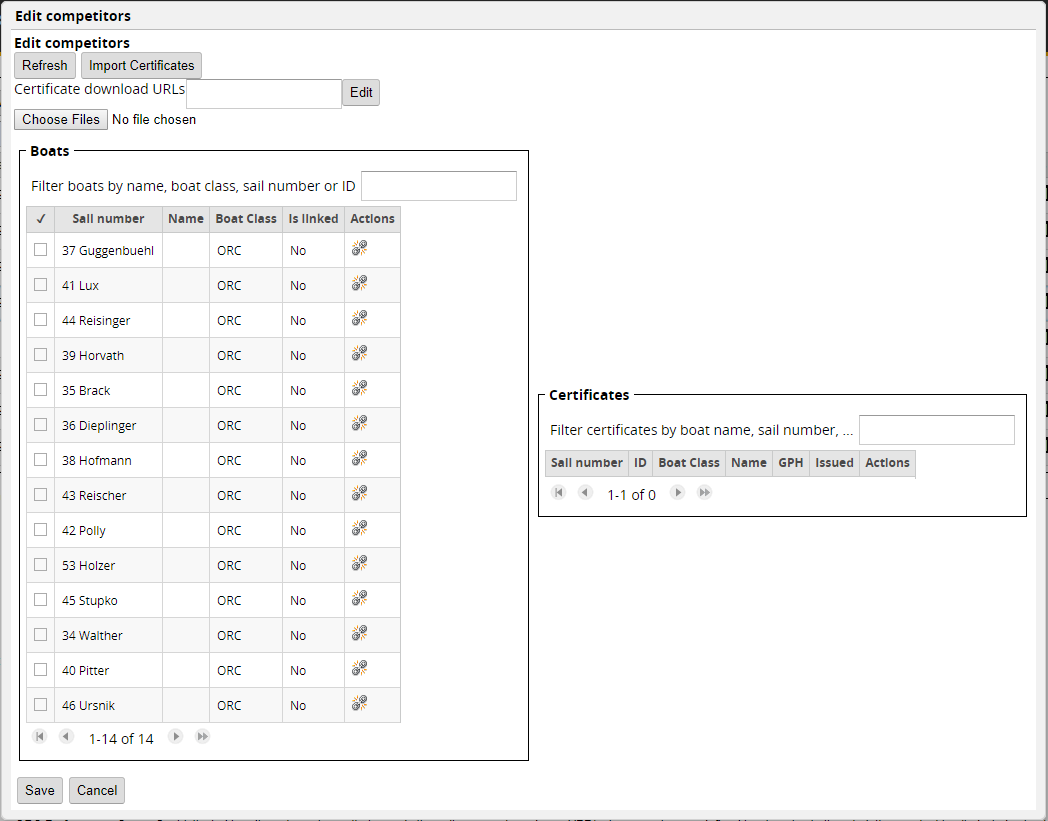
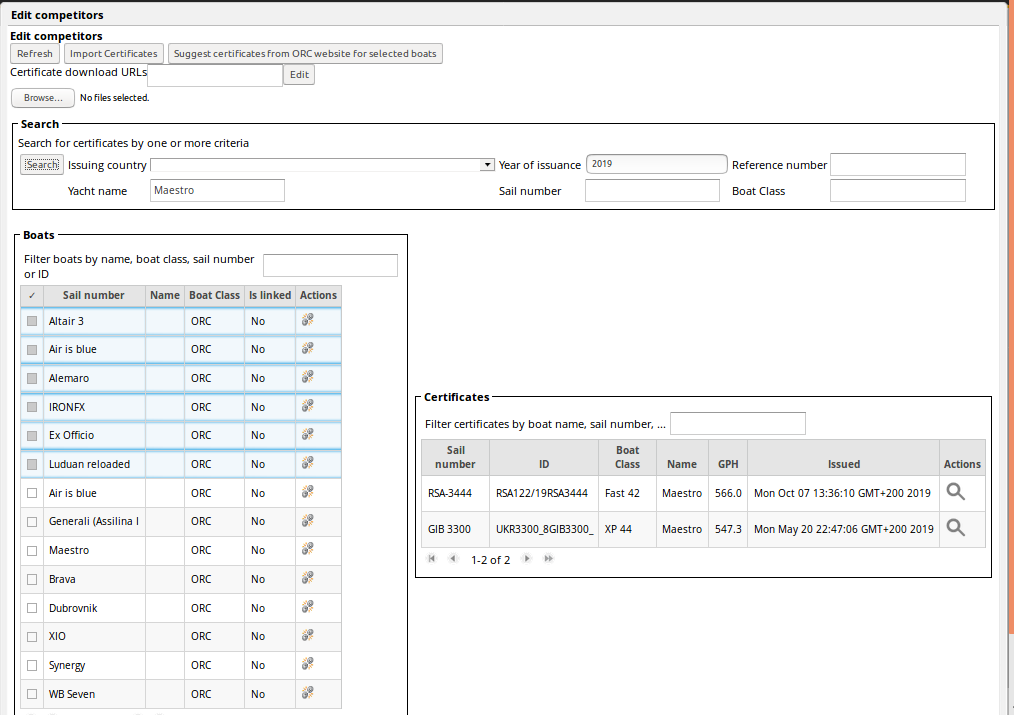
updated Wiki entry with new screenshot and an explanation of search and suggest

Changed region(s): [[0.0, 0.0, 1.0, 1.0], [0.4586, 0.2154, 0.8254, 0.3077], [0.3974, 0.9231, 0.428, 0.9538]]

diff --git a/wiki/howto/setup-orc-regatta.md b/wiki/howto/setup-orc-regatta.md
@@ -79,6 +79,10 @@ Assuming that your regatta already has competitors and boats assigned, the boat 
 
 There are currently two ways and two formats supported for certificates import: documents in JSON and RMS format can either be uploaded or referenced by a set of URLs pointing at the documents available for download. Use the "Certificate download URLs" control to edit a set of URLs from where certificates can be obtained; use the "Choose Files" button to select RMS and / or JSON files containing ORC certificates from your file system. Then use the ``Import Certificates`` button which will upload any local files selected to the server and will instruct the server to download the certificate files referenced by URL. The combined set of certificates will be obtained and displayed in the "Certificates" table on the right.
 
+You can also search for certificates by providing one or more search criteria in the "Search" section of the dialog. As you hit the "Search" button, all certificates found based on your criteria will be added to the table on the right.
+
+You can also select one or more boats in the boats table on the left and then press the "Suggest certificates from ORC website for selected boats" button. This will perform an online look-up based on the boats' parameters, such as name, sail number and boat class. Again, all certificates found this way will be added to the table on the right. Should an exact match result for a boat that has no certificate assigned yet, that match will automatically be assigned to the boat.
+
 [![Certificate Import](/wiki/images/orc/regatta-certificates-import-1-small.png)](/wiki/images/orc/regatta-certificates-import-1-small.mp4)
 
 A good source for certificate files is of course the ORC web site. [https://www.orc.org/index.asp?id=44](https://www.orc.org/index.asp?id=44) has the current certificates listed by issuing country. Note, though, that the country authority issuing a certificate does not necessarily have to be the same as the nationality of the sail number. [https://data.orc.org/public/WPub.dll?action=SrchCert&xslp=scert.php](https://data.orc.org/public/WPub.dll?action=SrchCert&xslp=scert.php) offers a comprehensive search form, but you need to apply for an account which can be done [here](https://data.orc.org/public/register.php). While we plan (see also section [Outlook](/wiki/howto/setup-orc-regatta#setting-up-an-orc-regatta-with-performance-curve-scoring-pcs_outlook) and [#5128 (Support ORC certificate search and/or use of RefNo to construct a certificate download URL)](https://bugzilla.sapsailing.com/bugzilla/show_bug.cgi?id=5128)) to support a more automated way of searching and downloading matching certificates, for now dedicated certificates can be found via the ORC search form. A typical search result looks like this:
